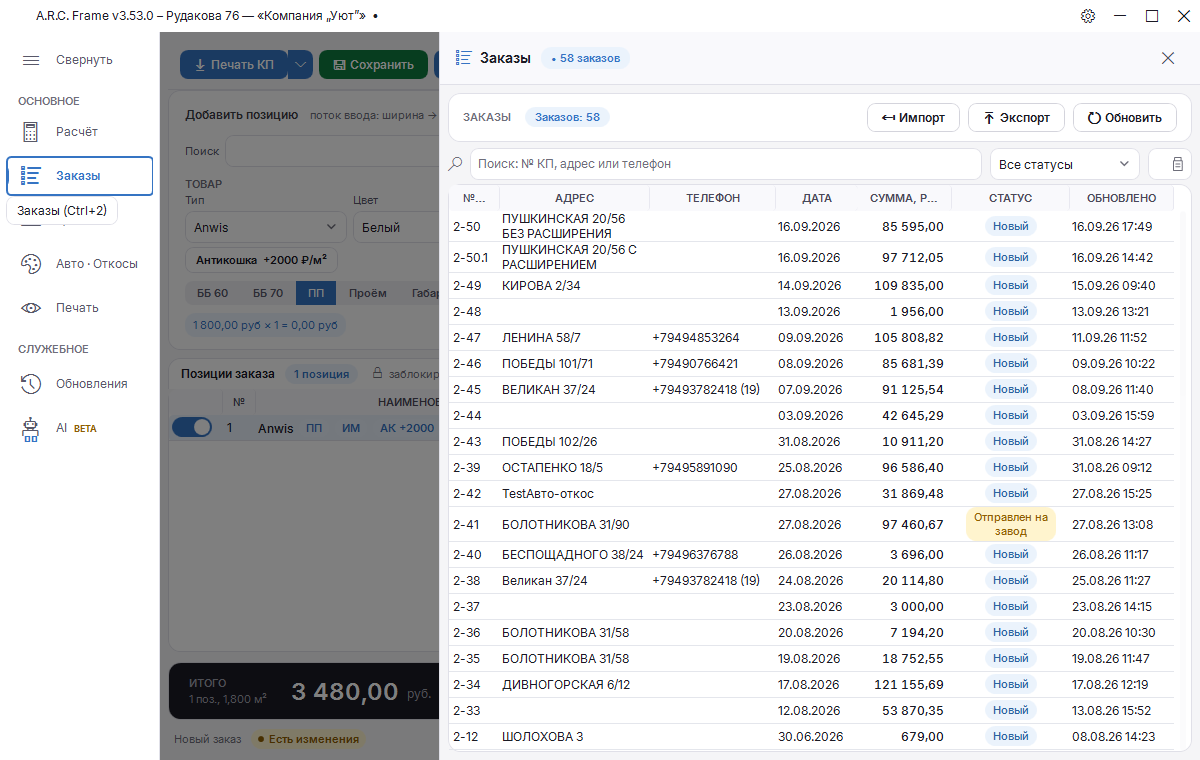
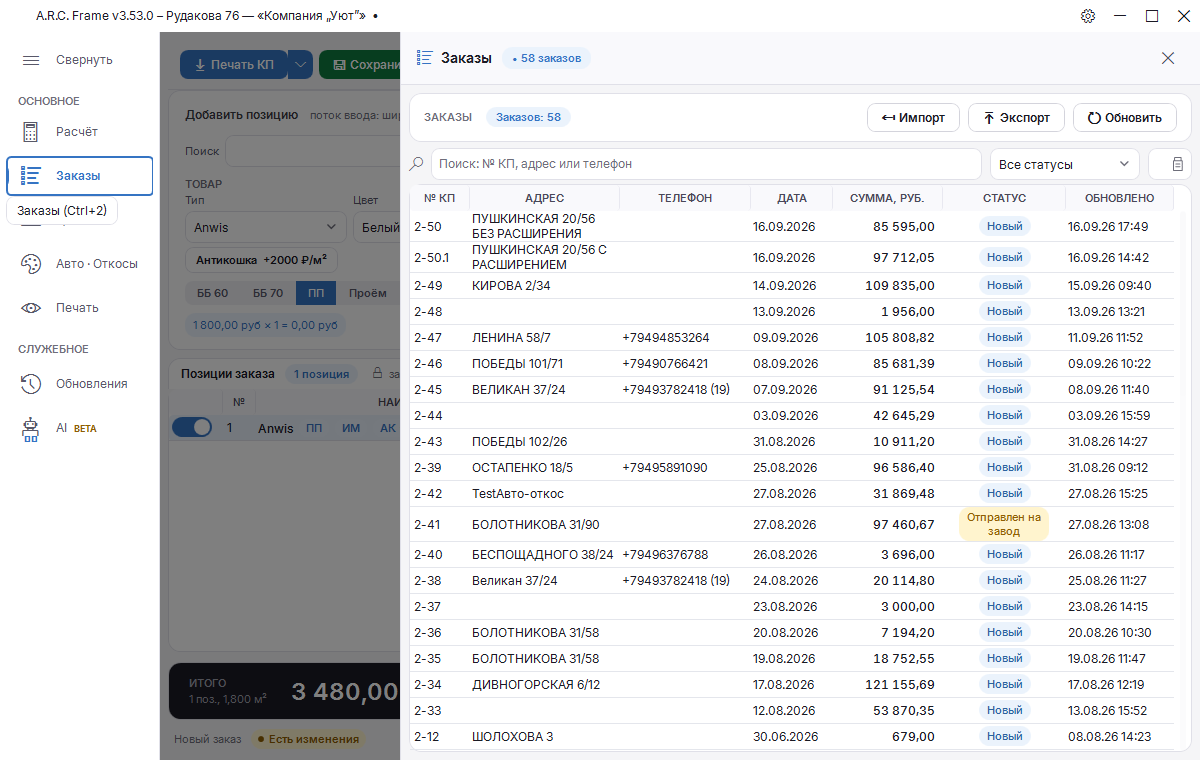
fix(ui): stop the column autosizer from squeezing grid headers into ellipsis
Владелец: снимки списка «Заказы» — в шапке «№…» и «СУММА, Р…» вместо
«№ КП» и «СУММА, РУБ.».

Корень — остаток дефекта, который закрывали у адреса (§33): правило
«объявленный MinWidth — пол» жило в одном вызове для одной колонки, а
DataGridColumnAutoSizer по-прежнему ПРИСВАИВАЛ MinWidth вычисленным
значением. Замер тем же FormattedText, что и код: для «№ КП» это 50,59px
при подписи 50,8px (не хватает 0,21px), для «Сумма, руб.» — ровно 95,0 под
95,0. Запаса не было вообще, поэтому ужатая узким окном колонка отдавала
подпись под многоточие.

- DataGridColumnAutoSizer: объявленный в разметке MinWidth запоминается при
  первом обращении к колонке (ConditionalWeakTable) и служит полом для
  ЛЮБОЙ колонки любого грида. Запоминается ПЕРВОЕ значение, а не текущее —
  иначе после длинного содержимого минимум остался бы раздутым (храповик).
- MeasureHeaderWidth: замер подписи шапки вынесен в метод — стражи мерят
  тем же инструментом, что колонка, и не разъедутся с ней.
- OrderGridPresenter: страховка «сохранить-и-восстановить MinWidth» для
  адреса удалена — она больше не нужна, правило стало общим.
- Стражи (2): SetColumnMinWidth_DoesNotDropBelowDeclaredMinWidth падает на
  старом коде (Expected 60, Actual 50,59), а
  Заказы_ОбъявленныйMinWidthКолонок_ВмещаетПодписьШапки мерит каждую подпись
  и требует запас ≥4px (при разметке 50 падает с «50 < подпись 50,8»).

Живая проверка (кадры 06/06b харнесса, обе темы): «№…» 22px → «№ КП» 31px,
[…]

diff --git a/MosquitoNetCalculator.Tests/Services/OrderGridPresenterTests.cs b/MosquitoNetCalculator.Tests/Services/OrderGridPresenterTests.cs
@@ -1,10 +1,14 @@
+using System;
 using System.Collections.Generic;
 using System.ComponentModel;
+using System.IO;
 using System.Linq;
+using System.Text.RegularExpressions;
 using System.Windows;
 using System.Windows.Controls;
 using System.Windows.Controls.Primitives;
 using System.Windows.Data;
+using MosquitoNetCalculator.Helpers;
 using MosquitoNetCalculator.Models;
 using MosquitoNetCalculator.Services;
 using MosquitoNetCalculator.Tests.Helpers;
@@ -318,6 +322,127 @@ namespace MosquitoNetCalculator.Tests.Services
                 Assert.Equal(ListSortDirection.Descending, sort.Direction);
                 Assert.Equal("Name ▼", grid.Columns[0].Header);
             });
+        }
+
+        // ─── SetColumnMinWidth: объявленный MinWidth — пол ─────
+
+        /// <summary>
+        /// Регрессия v3.53.1. Автосайзер ПРИСВАИВАЛ вычисленный минимум,
+        /// затирая объявленный в разметке. Колонка «№ КП» получала 50px —
+        /// ровно подпись 11px SemiBold плюс паддинг шапки 10+10, без запаса.
+        /// На ужатом окне (источник: список заказов, окно ~790 DIP) такая
+        /// колонка показывала «№…», а «СУММА, руб.» — «СУММА, Р…».
+        /// </summary>
+        [Fact]
+        public void SetColumnMinWidth_DoesNotDropBelowDeclaredMinWidth()
+        {
+            WpfTestHelper.RunOnSta(() =>
+            {
+                var grid = new DataGrid { FontSize = 12 };
+                var col = new DataGridTextColumn
+                {
+                    Header = "№ КП",
+                    MinWidth = 60,
+                    Width = DataGridLength.Auto
+                };
+                grid.Columns.Add(col);
+
+                DataGridColumnAutoSizer.SetColumnMinWidth(grid, col, "№ КП", new[] { "2-50" });
+                Assert.Equal(60, col.MinWidth);
+
+                // Содержимое минимум ПОДНИМАЕТ…
+                DataGridColumnAutoSizer.SetColumnMinWidth(grid, col, "№ КП", new[] { "2-50-2026-длинный-номер" });
+                Assert.True(col.MinWidth > 60,
+                    $"Длинное содержимое должно поднять минимум, получено {col.MinWidth}.");
+
+                // …но не превращает его в храповик: с коротким содержимым
+                // минимум возвращается к объявленному, а не остаётся раздутым.
+                DataGridColumnAutoSizer.SetColumnMinWidth(grid, col, "№ КП", new[] { "2-50" });
+                Assert.Equal(60, col.MinWidth);
+            });
+        }
+
+        /// <summary>
+        /// Страж, который поймал бы обрезку шапки ДО пользователя: объявленный
+        /// в разметке <c>MinWidth</c> каждой колонки списка заказов обязан
+        /// вмещать подпись шапки так, как её меряет сам автосайзер (11px
+        /// SemiBold, ВЕРХНИЙ регистр — шапка рисуется капсом), плюс паддинг
+        /// шапки 10+10 и запас. Без запаса колонка, ужатая узким окном до
+        /// минимума, отдаёт подпись под многоточие (GOTCHAS §34).
+        /// </summary>
+        [Fact]
+        public void Заказы_ОбъявленныйMinWidthКолонок_ВмещаетПодписьШапки()
+        {
+            var columns = OrdersGridColumns();
+            Assert.Equal(7, columns.Count);
+
+            WpfTestHelper.RunOnSta(() =>
+            {
+                var grid = new DataGrid
+                {
+                    FontSize = 12,
+                    FontFamily = AppFontService.CreateInterFamily()
+                };
+
+                // Собираем ВСЕ проблемы в один список: падение перечисляет
+                // сразу все узкие колонки, а не первую попавшуюся.
+                var problems = new List<string>();
+                foreach (var (header, minWidth) in columns)
+                {
+                    double needed = DataGridColumnAutoSizer.MeasureHeaderWidth(
+                                        grid, header.ToUpperInvariant())
+                                    + DataGridColumnAutoSizer.HeaderPadding;
+                    if (minWidth < needed + MinimalSlack)
+                        problems.Add("«" + header + "»: MinWidth " + minWidth +
+                                     " < подпись " + needed.ToString("F1") +
+                                     " + запас " + MinimalSlack);
+                }
+
+                Assert.True(problems.Count == 0,
+                    "На узком окне колонка опускается до объявленного MinWidth, и подпись шапки " +
+                    "уходит в многоточие:\n  " + string.Join("\n  ", problems));
+            });
+        }
+
+        /// <summary>Запас между подписью и минимумом: страховка от дробных пикселей замера.</summary>
+        private const double MinimalSlack = 4;
+
+        /// <summary>
+        /// Разбирает колонки таблицы заказов из разметки: (заголовок, MinWidth).
+        /// Колонка без объявленного MinWidth — уже ошибка: именно он служит
+        /// полом для автосайзера, и без него колонку снова ужмёт под подпись.
+        /// </summary>
+        private static List<(string Header, double MinWidth)> OrdersGridColumns()
+        {
+            string path = Path.Combine(RepoRoot(), "MosquitoNetCalculator", "Controls", "OrdersHistoryControl.xaml");
+            string xaml = Regex.Replace(File.ReadAllText(path), "<!--.*?-->", string.Empty, RegexOptions.Singleline);
+
+            var result = new List<(string, double)>();
+            foreach (Match m in Regex.Matches(xaml,
+                "<DataGrid(?:Text|Template)Column\\b(?<body>.*?)(?:/>|>)", RegexOptions.Singleline))
+            {
+                var header = Regex.Match(m.Groups["body"].Value, "Header=\"(?<h>[^\"]+)\"");
+                if (!header.Success) continue; // колонки без подписи (служебные) не проверяем
+                string headerText = header.Groups["h"].Value;
+                var min = Regex.Match(m.Groups["body"].Value, "MinWidth=\"(?<w>[0-9.]+)\"");
+                Assert.True(min.Success,
+                    "У колонки «" + headerText + "» нет MinWidth — автосайзер сможет ужать её под подпись шапки.");
+                result.Add((header.Groups["h"].Value,
+                    double.Parse(min.Groups["w"].Value, System.Globalization.CultureInfo.InvariantCulture)));
+            }
+
+            return result;
+        }
+
+        private static string RepoRoot()
+        {
+            var dir = new DirectoryInfo(AppContext.BaseDirectory);
+            while (dir != null
+                   && !File.Exists(Path.Combine(dir.FullName, "MosquitoNetCalculator", "App.xaml")))
+                dir = dir.Parent;
+            if (dir == null)
+                throw new DirectoryNotFoundException("Не найден корень репозитория.");
+            return dir.FullName;
         }
     }
 }

diff --git a/MosquitoNetCalculator/Helpers/DataGridColumnAutoSizer.cs b/MosquitoNetCalculator/Helpers/DataGridColumnAutoSizer.cs
@@ -1,5 +1,7 @@
+using System;
 using System.Collections.Generic;
 using System.Linq;
+using System.Runtime.CompilerServices;
 using System.Windows;
 using System.Windows.Controls;
 using System.Windows.Media;
@@ -8,6 +10,42 @@ namespace MosquitoNetCalculator.Helpers
 {
     internal static class DataGridColumnAutoSizer
     {
+        /// <summary>Горизонтальный паддинг шапки: 10px слева + 10px справа.</summary>
+        public const double HeaderPadding = 20;
+
+        /// <summary>
+        /// Размер подписи шапки (токен <c>Type.Caption</c>). Держать в паре с
+        /// <c>DataGridColumnHeader</c> в <c>Themes/DataGridStyles.xaml</c>.
+        /// </summary>
+        public const double HeaderFontSize = 11;
+
+        /// <summary>
+        /// Объявленный в разметке <c>MinWidth</c>, снятый при ПЕРВОМ обращении
+        /// к колонке. Дальше он служит полом: автосайзер может минимум поднять,
+        /// но не опустить ниже разметки (почему — см. GOTCHAS §34). Запоминание
+        /// первого значения (а не перечитывание текущего) защищает от храповика:
+        /// после длинного содержимого минимум возвращается к объявленному.
+        /// </summary>
+        private static readonly ConditionalWeakTable<DataGridColumn, StrongBox<double>> DeclaredMinWidths = new();
+
+        private static double DeclaredMinWidth(DataGridColumn col) =>
+            DeclaredMinWidths.GetValue(col, c => new StrongBox<double>(c.MinWidth)).Value;
+
+        /// <summary>
+        /// Ширина подписи шапки ровно тем инструментом, которым пользуется
+        /// <see cref="SetColumnMinWidth"/>. Нужна стражам: страж обязан мерить
+        /// шапку тем же инструментом, что и колонка, иначе они разъедутся и
+        /// страж будет молчать про реальную обрезку.
+        /// </summary>
+        public static double MeasureHeaderWidth(DataGrid grid, string headerText)
+        {
+            if (grid == null || string.IsNullOrEmpty(headerText)) return 0;
+            double dpi = VisualTreeHelper.GetDpi(grid).PixelsPerDip;
+            var typeface = new Typeface(grid.FontFamily, grid.FontStyle,
+                FontWeights.SemiBold, grid.FontStretch);
+            return GetMaxTextWidth(new[] { headerText }, typeface, HeaderFontSize, dpi);
+        }
+
         public static void SetColumnMinWidth(
             DataGrid grid,
             DataGridColumn? col,
@@ -23,7 +61,7 @@ namespace MosquitoNetCalculator.Helpers
 
             double dpi = VisualTreeHelper.GetDpi(grid).PixelsPerDip;
             double fontSize = grid.FontSize > 0 ? grid.FontSize : 12;
-            double headerFontSize = 11;
+            double headerFontSize = HeaderFontSize;
 
             var headerTypeface = new Typeface(grid.FontFamily, grid.FontStyle,
                 FontWeights.SemiBold, grid.FontStretch);
@@ -44,7 +82,15 @@ namespace MosquitoNetCalculator.Helpers
                 if (contentW > minWidth) minWidth = contentW;
             }
 
-            col.MinWidth = minWidth;
+            // Флор: MinWidth из разметки — не «значение по умолчанию», а
+            // подобранная с запасом ширина, при которой подпись шапки
+            // (11px SemiBold + паддинг 20) не режется. Замер FormattedText
+            // ложится ВПРИТЫК, поэтому присваивание вычисленного минимума
+            // «как есть» обнуляло запас: ужатая окном колонка показывала
+            // «№…» и «СУММА, Р…» (GOTCHAS §34). Объявленный минимум не
+            // пробиваем.
+            double declaredMin = DeclaredMinWidth(col);
+            col.MinWidth = minWidth > declaredMin ? minWidth : declaredMin;
         }
 
         public static DataGridColumn? FindCol(DataGrid grid, string headerText)

diff --git a/MosquitoNetCalculator/Services/OrderGridPresenter.cs b/MosquitoNetCalculator/Services/OrderGridPresenter.cs
@@ -51,12 +51,12 @@ namespace MosquitoNetCalculator.Services
             var sortDescriptions = grid.Items.SortDescriptions.ToList();
 
             // АДРЕС — приоритетная колонка: минимум из XAML (150) не должен
-            // перезаписываться автосайзером вниз (иначе он опустит его до
-            // ширины заголовка «АДРЕС» ≈60px, и адрес снова станет «ПУШКИНСКА…»).
-            var addrCol = DataGridColumnAutoSizer.FindCol(grid, "Адрес");
-            var addrMin = addrCol?.MinWidth ?? 0;
-            DataGridColumnAutoSizer.SetColumnMinWidth(grid, addrCol, UpperHeader("Адрес"));
-            if (addrCol != null && addrCol.MinWidth < addrMin) addrCol.MinWidth = addrMin;
+            // опускаться до ширины заголовка «АДРЕС» ≈60px, иначе адрес снова
+            // станет «ПУШКИНСКА…». Держит это сам автосайзер: объявленный в
+            // разметке MinWidth — пол для ЛЮБОЙ колонки (GOTCHAS §34), поэтому
+            // отдельной страховки именно для адреса больше не нужно.
+            DataGridColumnAutoSizer.SetColumnMinWidth(grid,
+                DataGridColumnAutoSizer.FindCol(grid, "Адрес"), UpperHeader("Адрес"));
 
             DataGridColumnAutoSizer.SetColumnMinWidth(grid, DataGridColumnAutoSizer.FindCol(grid, "№ КП"), UpperHeader("№ КП"),
                 orders.Select(o => o.ContractNumber));

diff --git a/CHANGELOG.md b/CHANGELOG.md
@@ -29,6 +29,7 @@
 - **Смок-харнесс стал устойчивым к занятому рабочему столу** (тихий брак прогона 2026-09-16): кадры снимаются с ЭКРАНА, поэтому чужое окно поверх нашего попадало в базлайн как есть, а клик и клавиши уходили тому, кто сверху — дважды за день харнесс молча записал чужое состояние (05/06 — главное окно вместо оверлея, 04b/09a — открытый сайдбар с 235k пикселей скрима), и ни одна запись не упала. Теперь доказательство «своего» окна обязательно для каждого действия: страж «экран здесь наш» проверяет сетку 5×4 точек (`WindowFromPoint` → `GA_ROOT` → pid) до и после захвата, при перекрытии поднимает своё окно (`SetForegroundWindow`, при отказе foreground-lock — `AttachThreadInput`, последний рубеж `HWND_TOPMOST`) и переснимает, не удалось — сцена падает с диагнозом «какое окно мешает» и кадр НЕ записывается; `Click-At`/`Move-At` отменяются, если владелец точки чужой; `Send-Keys-Safe` не отправляет клавиши, пока переднее окно не наше; сцены ждут маркеров UIA и повторяют действие до 3 раз; закрытие оверлея проверяется по эффекту, кадры «главное окно» требуют полного отсутствия оверлеев; запись атомарна (tmp + повтор `Move-Item` — файл мигом держит проводник-индексатор). Самопроверка `-SelfTest` доказывает, что страж не вакуумный: подставное перекрытие, точка внедрения «закрытие без эффекта», магента-форма поверх окна — при перекрытии кадр не пишется, клик отменяется, настоящий путь закрывает оверлей. Попутно закрыт дефект доступности: кнопка закрытия slide-over'а не имела UIA-имени (Диктор читал глиф, семантическое закрытие было невозможно) — имя добавлено в общий стиль, страж в `AccessibilityTests` не даст его потерять. Прогон на том же занятом столе: dark+light по 17/17 кадров, стражи молчали, оверлеи на выходе закрыты; сверка с прежними базлайнами по плиткам показала, что новые кадры чище (ушли hover-подсветка от брошенного курсора и «залипший» тост в старых базлайнах) — базлайны перегенерированы на новых кадрах. Правило — GOTCHAS §30.
 - **Единая типографика доведена до конца: ни одной семьи шрифта мимо токена** (полный аудит «везде один шрифт»): в разметке жили 80 литералов `FontFamily="Segoe Fluent Icons, Segoe MDL2 Assets"` при существующем токене `Font.Icon` (использовался 4 раза) — теперь все на `{DynamicResource Font.Icon}`; в C# три места с собственными `new FontFamily(...)` (тосты, титлбар, диалоги) идут через `AppFontService.CreateIconFamily()`, а рендер inline-кода AI-чата — `CreateMonoFamily()` (вернул потерянную ступень Cascadia Mono в каскаде `Font.Mono`). Попутно закрыт реальный дефект: глиф закрытия в `DialogService` был задан как `«Segoe Fluent Icons»` БЕЗ фолбэка — этой семьи нет на Windows 10 (заявленная ОС), и глиф рисовался пустым квадратом; WPF не падает и не логирует, просто tofu. Стражи ужесточены: литерал семьи в разметке — ошибка всегда (опечатка в имени даёт tofu, который не ловит ни один тест; раньше иконочные литералы страж сам разрешал), токен `Font.Icon` обязан содержать Win10-фолбэк `IconFontToken_KeepsWin10Fallback`, семья в C# — только через `AppFontService` с единственным исключением печатного слоя `FontFamiliesInCode_UseAppFontService_ExceptPrintLayer` (бумага всегда белая, шрифт печати темой не переключается). Страж проверен пробой: литерал в UI-сервисе дал падение с точным файлом. Полный прогон 2382/2382, verify-pixels чист — кадры не изменились (токен и литерал давали одну строку семей: миграция меняет ownership, а не вид). Разбор — GOTCHAS §31.
 - **Самоустановка шрифта per-user при его отсутствии на устройстве** (запущенное приложение, а не установщик): при старте (фоном, после показа окна) сервис проверяет семейство Inter через GDI; если его нет — чистая машина, сторонний деинсталлятор почистил шрифты — комплект из пяти вшитых ttf ставится текущему пользователю: файлы в `%LocalAppData%\MosquitoNetCalculator\fonts\<версия>\`, регистрация `AddFontResource` + ключ `HKCU\...\Fonts` (без прав администратора), рассылка `WM_FONTCHANGE`. Это страховка для печатного КП, диалогов печати и внешних просмотрщиков: сам интерфейс и так рисует Inter напрямую из сборки, поэтому установка фоновая и best-effort — любые отказы глотаются и повторяются при следующем запуске, старт приложения не задерживается и не зависит от них. Три ловушки закрыты и задокументированы (GOTCHAS §32): вшитые `<Resource>` ttf НЕ лежат рядом с exe (извлекаются из `.g.resources` по ключу `resources/fonts/...` строчными), GDI держит установленные файлы открытыми (поэтому папка — на версию комплекта, новая версия ставится рядом, ключи перезаписываются), а «opener» ключа реестра обязан возвращать новый ключ на каждый вызов (using закрывает после первого файла). Тесты (7) изолируют реестр в одноразовый куст — первый прогон оставлял в реальном HKCU пять битых значений, теперь это проверяется: значения обязаны попасть в подменный куст. Живая проверка: при уже установленном Inter приложение стартует и ничего не трогает; полный прогон 2389/2389.
+- **Шапка списка заказов перестала резаться многоточием** (замеры по кадрам владельца): «№ КП» рисовалось как «№…», а «Сумма, руб.» — как «СУММА, Р…». Это остаток той же ошибки, что закрывалась у адреса: правило «объявленный MinWidth — пол» жило только в одном вызове для одной колонки, остальные автосайзер по-прежнему перезаписывал вычисленным минимумом. Замер показал, что дело не в нехватке места, а в отсутствии запаса: для «№ КП» вычисленный минимум — **50,59px** при подписи **50,8px** (не хватает 0,21px), для суммы — ровно 95,0 под 95,0. Теперь объявленный в разметке `MinWidth` — пол для ЛЮБОЙ колонки и любого грида: `DataGridColumnAutoSizer` запоминает объявленное значение при первом обращении и не даёт его опустить (запоминается первое значение, а не текущее — иначе после длинного содержимого минимум остался бы раздутым). Страж `SetColumnMinWidth_DoesNotDropBelowDeclaredMinWidth` падает на старом коде (60 → 50,59), второй — `Заказы_ОбъявленныйMinWidthКолонок_ВмещаетПодписьШапки` — мерит каждую подпись тем же инструментом (`MeasureHeaderWidth`), что и колонка, и требует запас. Живая проверка — кадры 06/06b харнесса до/после в обеих темах: «№…» 22px → «№ КП» 31px, «СУММА, Р…» 67px → «СУММА, РУБ.» 74px; ширины колонок встали на объявленные (№ 68, адрес 150, телефон 131, дата 82, сумма 110, статус 123, обновлено 108). Побочно те же полы получили таблица позиций и цены (цвет 50→55, ширина/высота 64→70, цена/сумма 54→70). Разбор — GOTCHAS §33.
 - **Тесты:** +89 (`Design/RadiusShapeTests`, `Design/GridDensityTests`, `Design/TypographyTests`, `Design/DesignTokenGuardTests`, `Design/WindowChromeAndDpiTests`, `Design/AccessibilityTests`, `Design/ContrastTests`, `Design/EmptyStateTests`, `Design/MotionTests`, `Design/GridDensityTests`). Итого **2379/2379 pass**, сборка 0 предупреждений / 0 ошибок, UI smoke dark+light зелёные, 35 кадров-базлайнов перегенерированы.
 - **Перепроверка перед выпуском нашла четыре дефекта** (все исправлены, все закрыты стражами): стиль окна не применялся (неявный стиль + производные окна), вшитый Inter до текста не доходил (следствие первого), гейт reduced-motion был мёртвым кодом, а его наивное включение вешало тосты и оверлеи, и вторая палитра бейджей в C# жила вне стражей. Разборы — GOTCHAS §22–23.
 - **Гонка в тестах закрыта (найдена при выпуске):** `Application` в WPF один на процесс, а xUnit параллелит классы разных коллекций — два потока одновременно видели «приложения нет», и один успевал создать ПУСТОЕ (без тем) приложение; первый же тест, искавший ресурс темы (`ToastBorder`), падал с `ResourceReferenceKeyNotFoundException`. Весь `TestAppThemes.Ensure()` теперь под процесс-глобальным `lock`, а новый STA-класс `Design/MotionTests` добавлен в коллекцию `WPF_UI` (`DisableParallelization`). Разбор — GOTCHAS §21.

diff --git a/agents/docs/GOTCHAS.md b/agents/docs/GOTCHAS.md
@@ -1108,6 +1108,26 @@ XAML-минимум (берётся как пол) и капаться по со
 потенциально длинным текстом (телефон, адрес, статус) — явный cap в
 вызове автосайзера. Если колонка звезда — её минимум не опускается.
 
+**Остаток той же ошибки на остальных колонках (v3.53.1, живые кадры).**
+Правило «минимум из разметки — пол» было применено только к адресу,
+поэтому на узком окне владельца (~790 DIP) шапка «Заказов» рисовалась
+как «№…» и «СУММА, Р…». Замер по кадру: колонка «№ КП» сжималась до
+51px при подписи **50,8px** — т.е. не хватало 0,21px; «Сумма, руб.» —
+ровно 95,0px под подпись 95,0px. Причина не «мало места», а НОЛЬ
+запаса: замер `FormattedText` (подпись 11px SemiBold + паддинг 10+10)
+ложится впритык, и автосайзер присваивал колонке именно его.
+Теперь объявленный в разметке `MinWidth` — пол для ЛЮБОЙ колонки и
+любого грида: `DataGridColumnAutoSizer` запоминает объявленное значение
+при первом обращении к колонке и не даёт его опустить (запоминается
+ПЕРВОЕ значение, а не текущее — иначе после длинного содержимого
+минимум остался бы раздутым, храповик). Стражей два:
+`SetColumnMinWidth_DoesNotDropBelowDeclaredMinWidth` (на старом коде
+падает: 60 → 50,59) и `Заказы_ОбъявленныйMinWidthКолонок_ВмещаетПодписьШапки`
+— он мерит каждую подпись ТЕМ ЖЕ инструментом, что и колонка
+(`MeasureHeaderWidth`), и требует запас, чтобы страж и код не разъехались.
+Живая проверка — кадры 06/06b харнесса до/после в обеих темах
+(«№…» 22px → «№ КП» 31px; «СУММА, Р…» 67px → «СУММА, РУБ.» 74px).
+
 **Сопутствующее — многострочные строки сливаются.** Когда строки
 выросли в высоту (перенос адреса), выяснилось, что `GridLine` тёмной
 темы `#26292F` на фоне строки `#1E2025` — контраст почти нулевой.
@@ -1135,6 +1155,7 @@ XAML-минимум (берётся как пол) и капаться по со
 | UI | Краш при переключении темы | СРЕДНИЙ |
 | UI | `Width="Auto"` колонки не растёт при наборе (`LostFocus` без `PropertyChanged`) | СРЕДНИЙ |
 | UI | Программный MinWidth колонки перезаписывает XAML-минимум; кап содержимого Auto-колонки (§33) | ВЫСОКИЙ |
+| UI | Минимум колонки «впритык» к подписи (ноль запаса): шапка режется многоточием при объявленном MinWidth (§33) | СРЕДНИЙ |
 | UI | DataGridTextColumn SelectAll race (отложенный BeginInvoke проигрывает первому keystroke, текст дописывается) | СРЕДНИЙ |
 | UI | `{Binding Converter={DynamicResource ...}}` — компилируется, краш в рантайме (Converter не DP) | СРЕДНИЙ |
 | UI | Неявный стиль базового типа не применяется к производным (стиль `Window` и наследники) | ВЫСОКИЙ |
